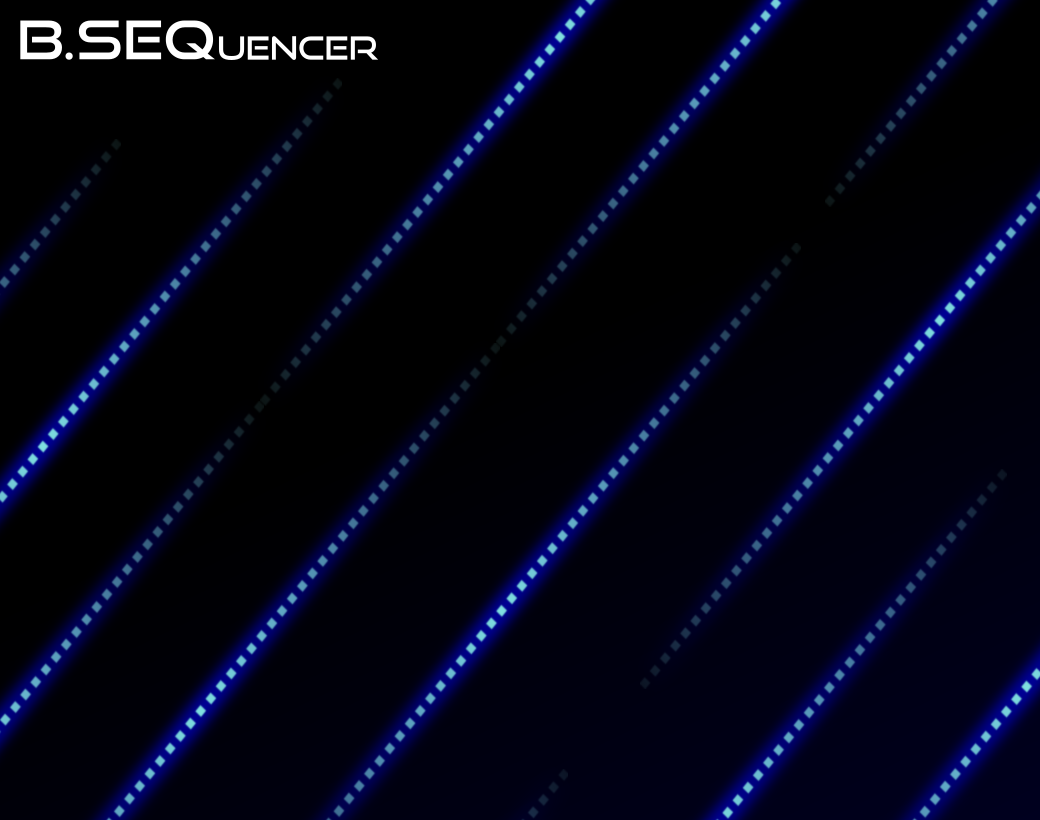
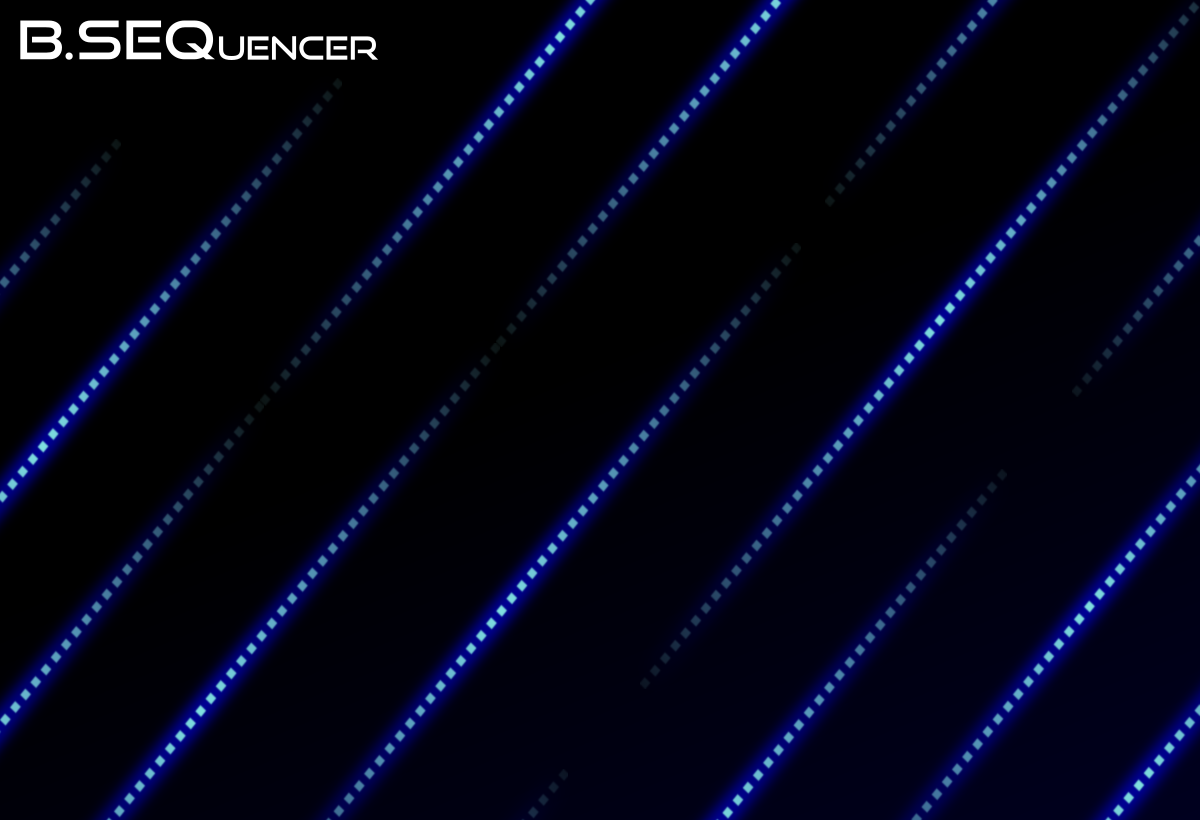
GUI modifications

diff --git a/src/BSEQuencer_GUI.cpp b/src/BSEQuencer_GUI.cpp
@@ -21,15 +21,15 @@
 #include "BSEQuencer_GUI.hpp"
 
 BSEQuencer_GUI::BSEQuencer_GUI (const char *bundle_path, const LV2_Feature *const *features, PuglNativeWindow parentWindow) :
-		Window (1040, 820, "B.SEQuencer", parentWindow),
+		Window (1200, 820, "B.SEQuencer", parentWindow),
 		cursorBits (0), noteBits (0), chBits (0), tempTool (false), tempToolCh (0),
 		pluginPath (bundle_path ? std::string (bundle_path) : std::string ("")), controller (NULL), write_function (NULL),
 		map (NULL),
-		mContainer (0, 0, 1040, 820, "main"),
-		padSurface (98, 88, 644, 484, "box"),
+		mContainer (0, 0, 1200, 820, "main"),
+		padSurface (98, 88, 804, 484, "box"),
 		captionSurface (18, 88, 64, 484, "box"),
 
-		modeBox (760, 88, 260, 205, "box"),
+		modeBox (920, 88, 260, 205, "box"),
 		modeBoxLabel (10, 10, 240, 20, "ctlabel", "Play mode"),
 		modeLabel (10, 90, 60, 20, "lflabel", "Mode"),
 		modeListBox (80, 90, 170, 20, 170, 60, "menu", std::vector<std::string> {"Autoplay", "Host controlled"}, 2.0),
@@ -44,7 +44,7 @@ BSEQuencer_GUI::BSEQuencer_GUI (const char *bundle_path, const LV2_Feature *cons
 		modePlayLabel (10, 50, 205, 20, "lflabel", "Status: playing ..."),
 		modePlayButton (210, 40, 40, 40, "box", 1.0),
 
-		toolBox (760, 315, 260, 257, "box"),
+		toolBox (920, 315, 260, 257, "box"),
 		toolBoxLabel (10, 10, 240, 20, "ctlabel", "Toolbox"),
 		toolButtonBox (0, 40, 260, 100, "widget"),
 		toolButtonBoxCtrlLabel (10, 10, 60, 20, "lflabel", "Controls"),
@@ -56,7 +56,7 @@ BSEQuencer_GUI::BSEQuencer_GUI (const char *bundle_path, const LV2_Feature *cons
 		toolDurationLabel (170, 225, 60, 20, "ctlabel", "Duration"),
 		toolDurationDial (175, 165, 50, 60, "dial", 1.0, 0.0, 1.0, 0.0, "%1.2f"),
 
-		propertiesBox (760, 590, 260, 210, "box"),
+		propertiesBox (920, 590, 260, 210, "box"),
 		propertiesBoxLabel (10, 10, 240, 20, "ctlabel", "Properties"),
 		propertiesNrStepsLabel (10, 50, 170, 20, "lflabel", "Total number of steps"),
 		propertiesNrStepsListBox (190, 50, 60, 20, 60, 100, "menu", {{8, "8"}, {16, "16"}, {24, "24"}, {32, "32"}}, 16.0),
@@ -71,7 +71,7 @@ BSEQuencer_GUI::BSEQuencer_GUI (const char *bundle_path, const LV2_Feature *cons
 		propertiesScaleLabel (10, 175, 50, 20, "lflabel", "Scale"),
 		propertiesScaleListBox (80, 175, 170, 20, 0, -300, 170, 300, "menu", scaleItems, 0.0),
 
-		helpLabel (980, 40, 30, 30, "ilabel", "?")
+		helpLabel (1140, 40, 30, 30, "ilabel", "?")
 
 {
 	// Init toolbox buttons
@@ -83,30 +83,30 @@ BSEQuencer_GUI::BSEQuencer_GUI (const char *bundle_path, const LV2_Feature *cons
 	// Init ChBoxes
 	for (int i = 0; i < NR_SEQUENCER_CHS; ++i)
 	{
-		chBoxes[i].box = BWidgets::Widget (98 + i * 163.5, 590, 153.5, 210, "box");
+		chBoxes[i].box = BWidgets::Widget (98 + i * 203.5, 590, 193.5, 210, "box");
 		chBoxes[i].box.rename ("box");
 		chBoxes[i].chSymbol = BWidgets::DrawingSurface (7, 7, 26, 26, "button");
 		chBoxes[i].chSymbol.rename ("button");
-		chBoxes[i].chLabel = BWidgets::Label (40, 10, 40, 20, "ctlabel", "CH " + std::to_string (i + 1));
+		chBoxes[i].chLabel = BWidgets::Label (40, 10, 133.5, 20, "ctlabel", "Channel " + std::to_string (i + 1));
 		chBoxes[i].chLabel.rename ("ctlabel");
 		chBoxes[i].channelLabel = BWidgets::Label (10, 50, 80, 20, "lflabel", "MIDI channel");
 		chBoxes[i].channelLabel.rename ("lflabel");
-		chBoxes[i].channelListBox = BWidgets::PopupListBox (93.5, 50, 50, 20, 50, 120, "menu", {"1", "2", "3", "4", "5", "6", "7", "8", "9", "10", "11", "12", "13", "14", "15", "16"}, i + 1);
+		chBoxes[i].channelListBox = BWidgets::PopupListBox (123.5, 50, 60, 20, 60, 120, "menu", {"1", "2", "3", "4", "5", "6", "7", "8", "9", "10", "11", "12", "13", "14", "15", "16"}, i + 1);
 		chBoxes[i].channelListBox.rename ("menu");
 		chBoxes[i].pitchLabel = BWidgets::Label (10, 80, 80, 20, "lflabel", "Input pitch");
 		chBoxes[i].pitchLabel.rename ("lflabel");
-		chBoxes[i].pitchSwitch = BWidgets::HSwitch (102.5, 82, 32, 16, "slider", 0.0);
+		chBoxes[i].pitchSwitch = BWidgets::HSwitch (132.5, 82, 42, 16, "slider", 0.0);
 		chBoxes[i].pitchSwitch.rename ("ch" + std::to_string (i + 1));
-		chBoxes[i].pitchScreen = BWidgets::Widget (10, 80, 133.5, 20, "screen");
+		chBoxes[i].pitchScreen = BWidgets::Widget (10, 80, 173.5, 20, "screen");
 		chBoxes[i].pitchScreen.rename ("screen");
 		chBoxes[i].pitchScreen.hide ();
-		chBoxes[i].velocityDial = BWidgets::DisplayDial (15, 120, 50, 60, "dial", 1.0, 0.0, 2.0, 0.0, "%1.2f");
+		chBoxes[i].velocityDial = BWidgets::DisplayDial (25, 120, 50, 60, "dial", 1.0, 0.0, 2.0, 0.0, "%1.2f");
 		chBoxes[i].velocityDial.rename ("ch" + std::to_string (i + 1));
-		chBoxes[i].velocityLabel = BWidgets::Label (10, 180, 60, 20, "ctlabel", "Velocity");
+		chBoxes[i].velocityLabel = BWidgets::Label (20, 180, 60, 20, "ctlabel", "Velocity");
 		chBoxes[i].velocityLabel.rename ("ctlabel");
-		chBoxes[i].noteOffsetDial = BWidgets::DisplayDial (88.5, 120, 50, 60, "dial", 0.0, -127.0, 127.0, 1.0, "%3.0f");
+		chBoxes[i].noteOffsetDial = BWidgets::DisplayDial (118.5, 120, 50, 60, "dial", 0.0, -127.0, 127.0, 1.0, "%3.0f");
 		chBoxes[i].noteOffsetDial.rename ("ch" + std::to_string (i + 1));
-		chBoxes[i].noteOffsetLabel = BWidgets::Label (83.5, 180, 60, 20, "ctlabel", "Offset");
+		chBoxes[i].noteOffsetLabel = BWidgets::Label (113.5, 180, 60, 20, "ctlabel", "Offset");
 		chBoxes[i].noteOffsetLabel.rename ("ctlabel");
 	}
 
@@ -753,7 +753,7 @@ LV2UI_Handle instantiate (const LV2UI_Descriptor *descriptor,
 
 	ui->controller = controller;
 	ui->write_function = write_function;
-	if (resize) resize->ui_resize(resize->handle, 1040, 820 );
+	if (resize) resize->ui_resize(resize->handle, 1200, 820 );
 
 	*widget = (LV2UI_Widget) puglGetNativeWindow (ui->getPuglView ());
 	ui->send_ui_on();

diff --git a/src/BSEQuencer_GUI.hpp b/src/BSEQuencer_GUI.hpp
@@ -158,7 +158,7 @@ private:
 	BColors::Color ink = {0.0, 0.25, 0.5, 1.0};
 	BColors::Color light = {1.0, 1.0, 1.0, 1.0};
 	BColors::Color ctrlBgColor = {0.0, 0.08, 0.04, 1.0};
-	BColors::Color evenPadBgColor = {0.0, 0.02, 0.05, 1.0};
+	BColors::Color evenPadBgColor = {0.0, 0.03, 0.06, 1.0};
 	BColors::Color oddPadBgColor = {0.0, 0.0, 0.0, 1.0};
 	std::array<ButtonStyle, NR_SEQUENCER_CHS + 1> chButtonStyles =
 		{{{{0.0, 0.0, 0.0, 0.5}, ""}, {{0.0, 0.0, 1.0, 1.0}, ""}, {{1.0, 0.0, 1.0, 1.0}, ""}, {{1.0, 0.5, 0.0, 1.0}, ""}, {{1.0, 1.0, 0.0, 1.0}, ""}}};

diff --git a/README.md b/README.md
@@ -33,12 +33,12 @@ to run it stand-alone and connect it to the JACK system.
 
 Key features
 ------------
-* Step sequencer with a note-based 16x16 matrix
+* Step sequencer with a selectable matrix size (8x16, 16x16, 24x16, or 32x16)
 * Control panel (in line 1 of the matrix) with playing direction, jump, skip, and stop options
 * Autoplay or host / MIDI controlled playing
 * Handles multiple MIDI inputs signals (keys) in one sequencer instance
 * Four configurable output channels
-* Output channels connectable with individual MIDI ports / channels
+* Output channels connectable with individual MIDI channels
 
 Usage
 -----
